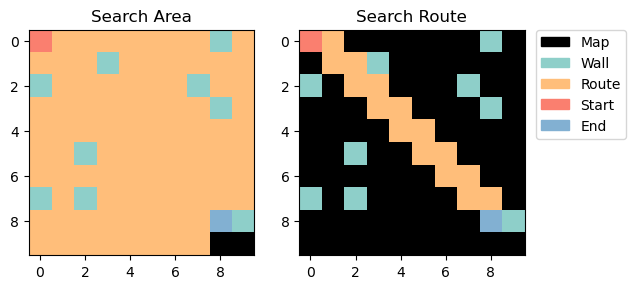
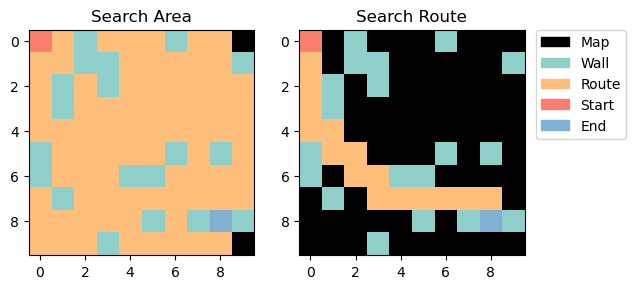
add the walls p in thie search env

diff --git a/env/GridSearchEnv.py b/env/GridSearchEnv.py
@@ -2,7 +2,7 @@ import numpy as np
 import collections
 import heapq
 
-np.random.seed(0);
+np.random.seed(4);
 
 class Env():
     def __init__(self, height, width):
@@ -11,7 +11,7 @@ class Env():
         self.action_space = [0, 1, 2, 3]
         self.height = height
         self.width = width
-        self.p = 0.9  ## the nums of human percentage in the map
+        self.p = 0.8  ## the nums of human percentage in the map
         # self.map = np.zeros([height, width])
 
         # TODOLIST: if human <= 2 we need to random this map again, to ensure the reward can converge...

diff --git a/README.md b/README.md
@@ -35,14 +35,7 @@ There are 4 kinds of reward in this environment, including:
 
 ## Getting Started
 
-Just download the repositories. And you can also use `conda` to create a new conda enviroment. 
-> maybe python 3.7 or 3.6 is available
-```bash
-conda create -n gridworldenv python=3.8
-conda activate gridworldenv
-```
-
-
+Just download the repositories. And you can also use `conda` to create a new conda enviroment.
 ```bash
 git clone https://github.com/SunHaoOne/GridWorld-RL-Qlearning.git
 cd GridWorld-RL-Qlearning
